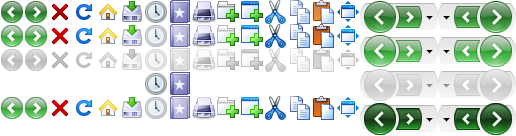
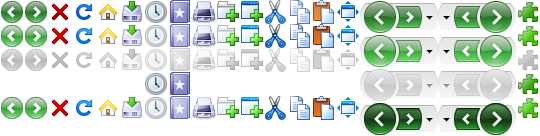
add extension toolbar button to firefox 3

diff --git a/Namoroka/Profile Folder/chrome/scss-src/chrome/firefox-3/_icons.scss b/Namoroka/Profile Folder/chrome/scss-src/chrome/firefox-3/_icons.scss
@@ -25,3 +25,7 @@
         @include set-background("firefox-3/vista/icons/close.png");
     }
 }
+
+.toolbarbutton-1#unified-extensions-button .toolbarbutton-icon {
+    background-position-x: -516px !important;
+}

diff --git a/Namoroka/Profile Folder/chrome/namoroka.css b/Namoroka/Profile Folder/chrome/namoroka.css
@@ -1684,6 +1684,9 @@ toolbarpaletteitem > #search-container > #searchbar > .searchbar-textbox {
   background-image: url("chrome://namoroka/content/firefox-3/vista/icons/close.png") !important;
   list-style-image: none !important;
 }
+:root[namoroka-style-2] .toolbarbutton-1#unified-extensions-button .toolbarbutton-icon {
+  background-position-x: -516px !important;
+}
 :root[namoroka-style-2] #nav-bar {
   padding-block: 1px !important;
 }